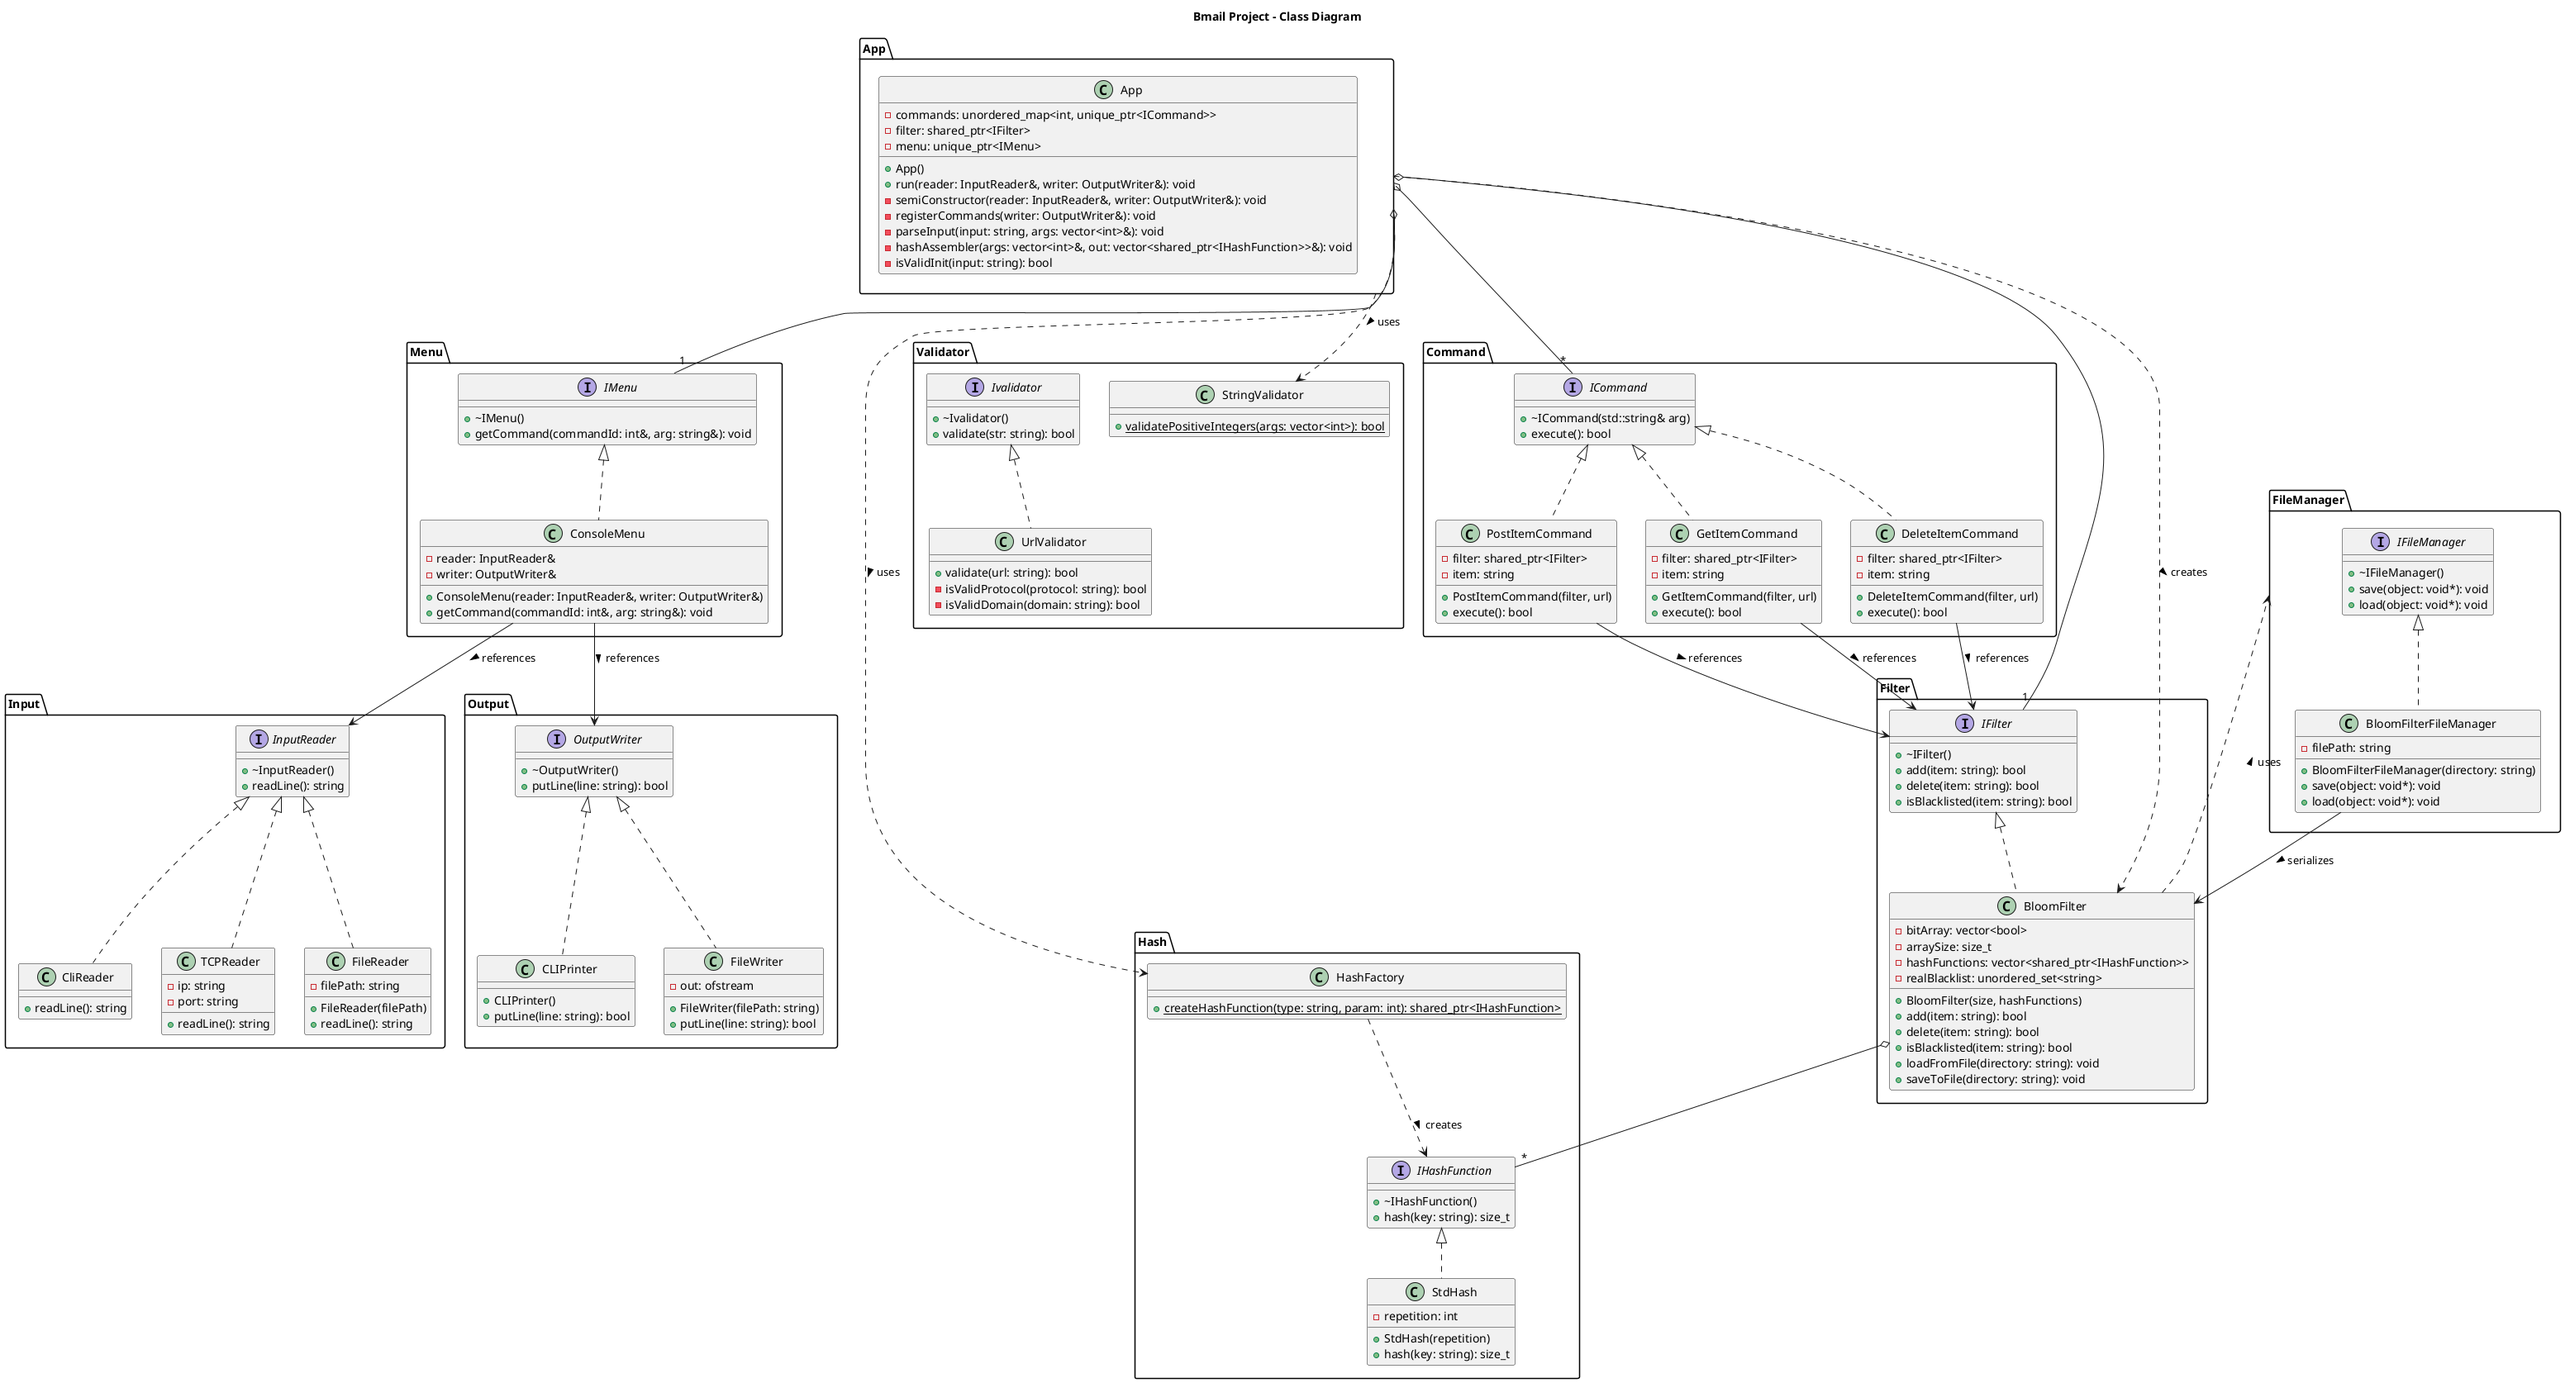
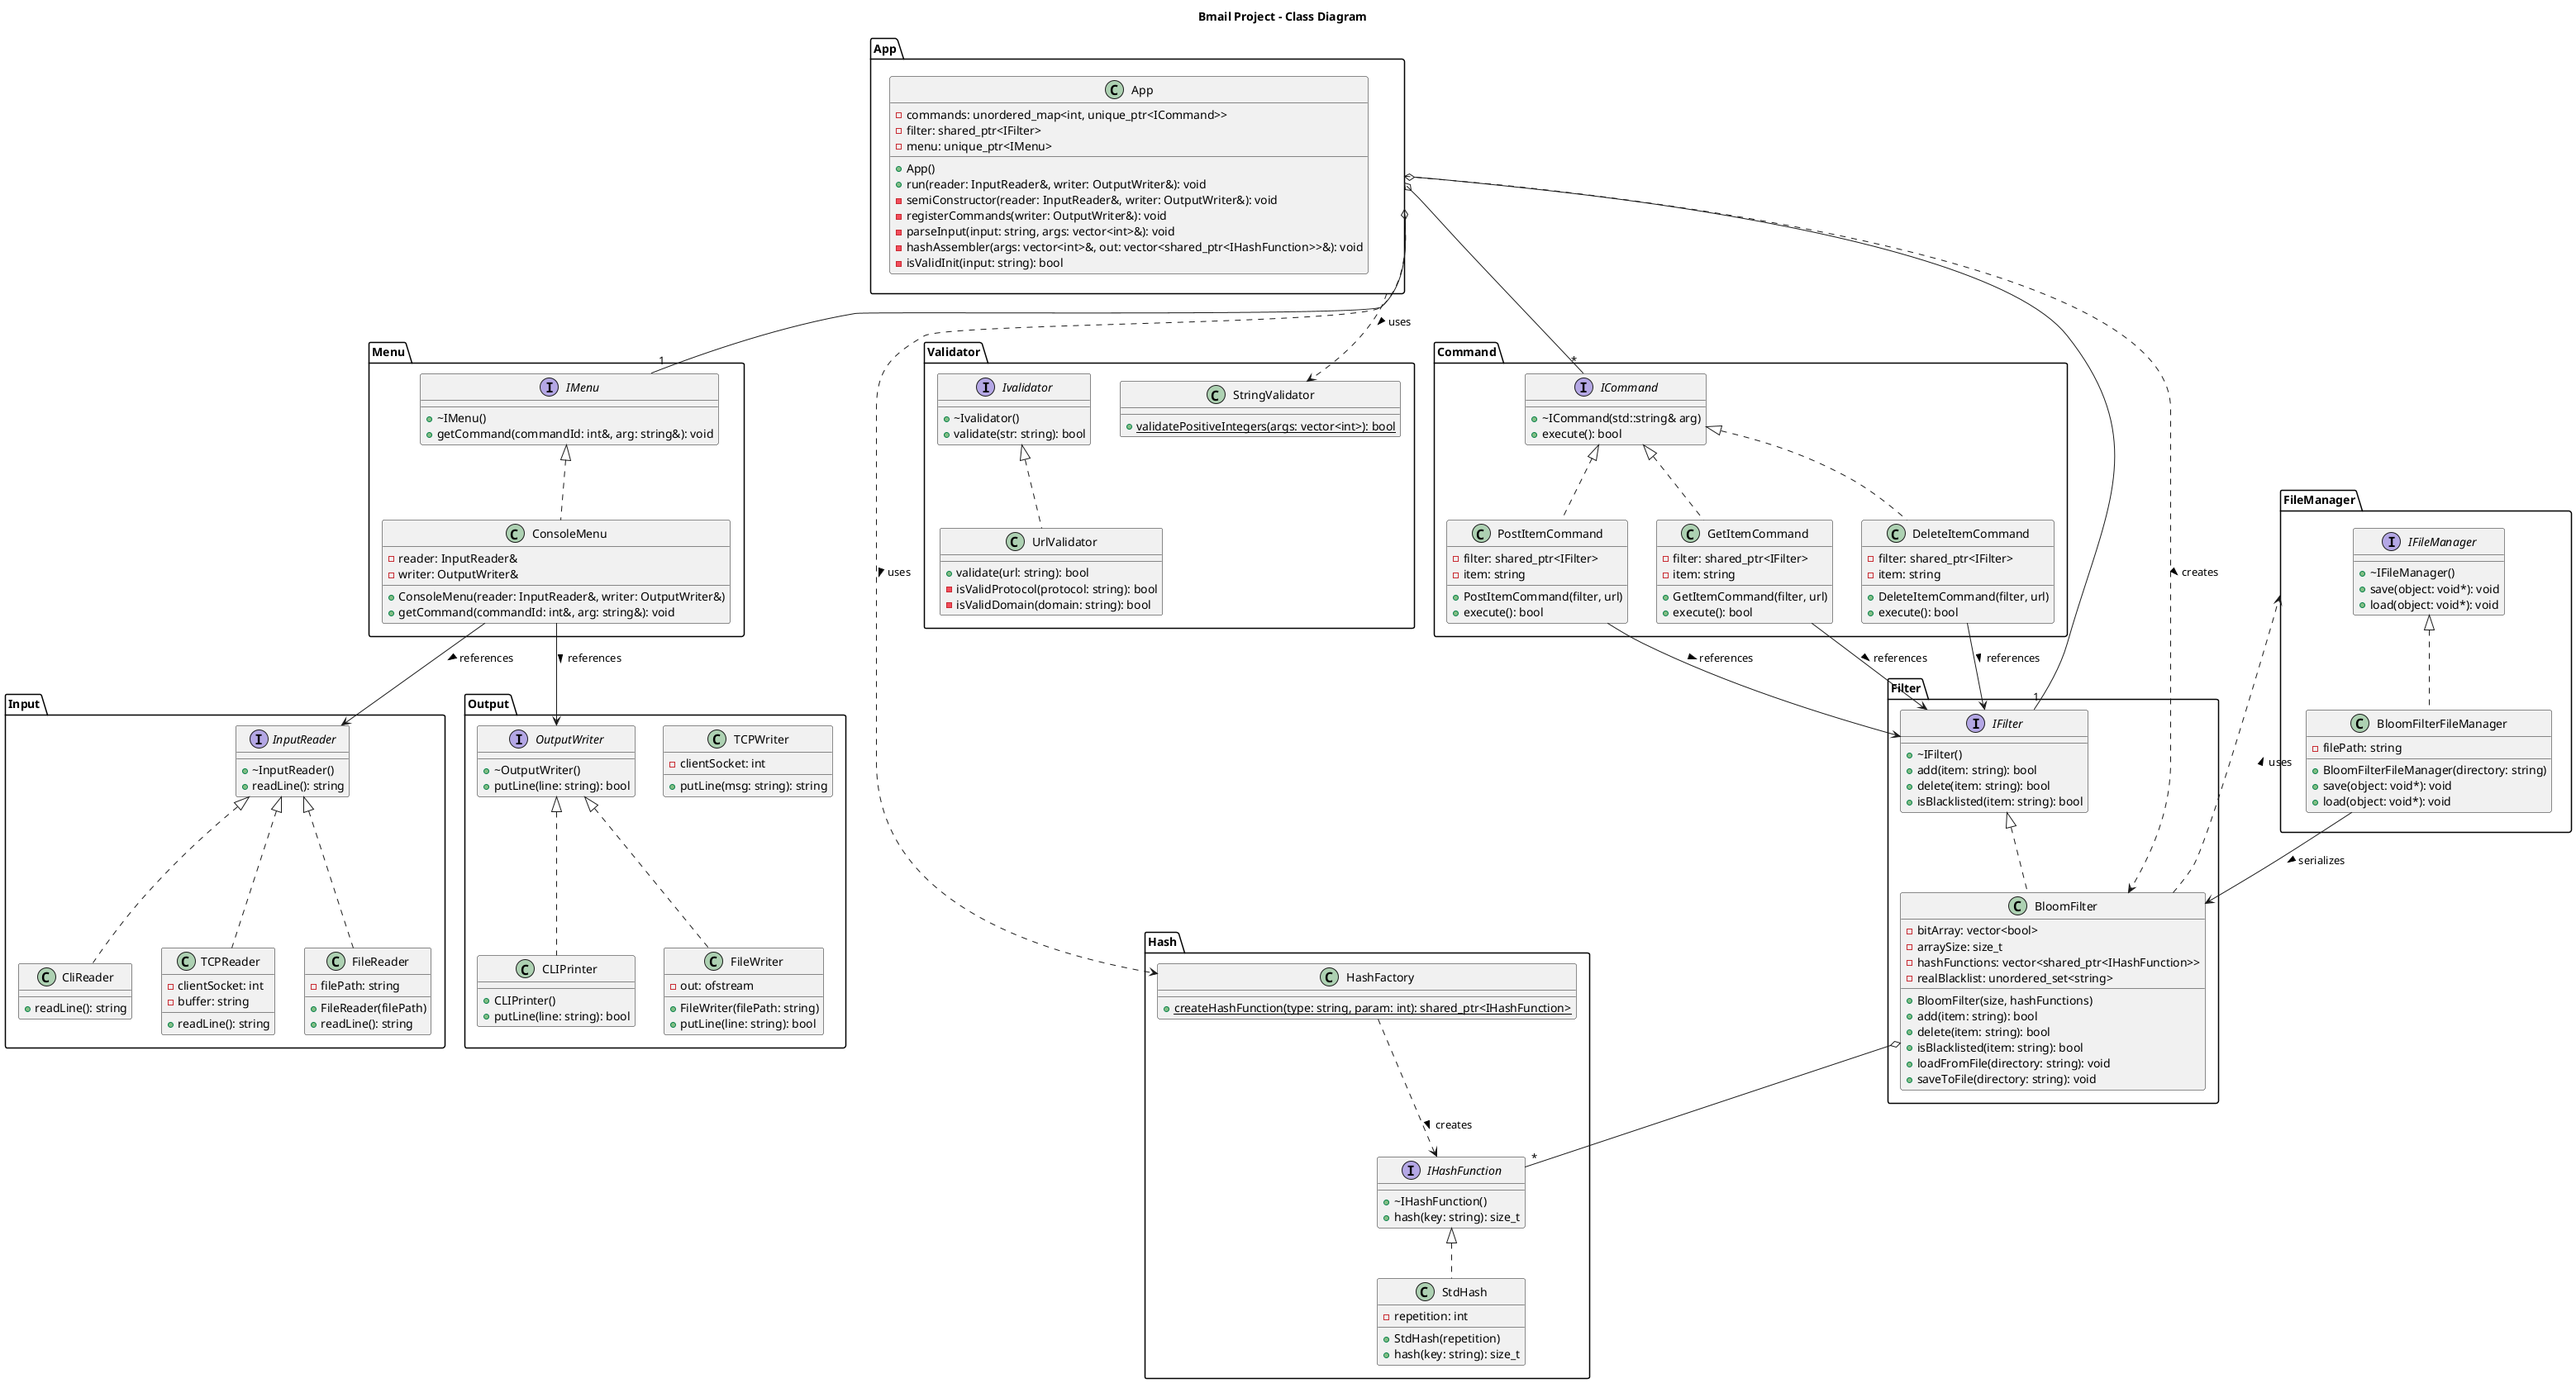
add TCPWriter and TCPReader to the uml diagram

diff --git a/src/input/TCPReader.cpp b/src/input/TCPReader.cpp
@@ -3,7 +3,7 @@
 
 bool TCPReader::getLine(std::string &line) {
   // Read a line from the TCP socket
-  ssize_t bytes_received = recv(socket_fd, buffer, sizeof(buffer) - 1, 0);
+  ssize_t bytes_received = recv(clientSocket, buffer, sizeof(buffer) - 1, 0);
   // Check for errors or connection closure
   if (bytes_received <= 0) {
     return false;

diff --git a/src/input/TCPReader.h b/src/input/TCPReader.h
@@ -15,6 +15,6 @@ public:
     bool getLine(std::string &line) override;
 
 private:
-    int socket_fd;
+    int clientSocket;
     char buffer[1024];
 };
